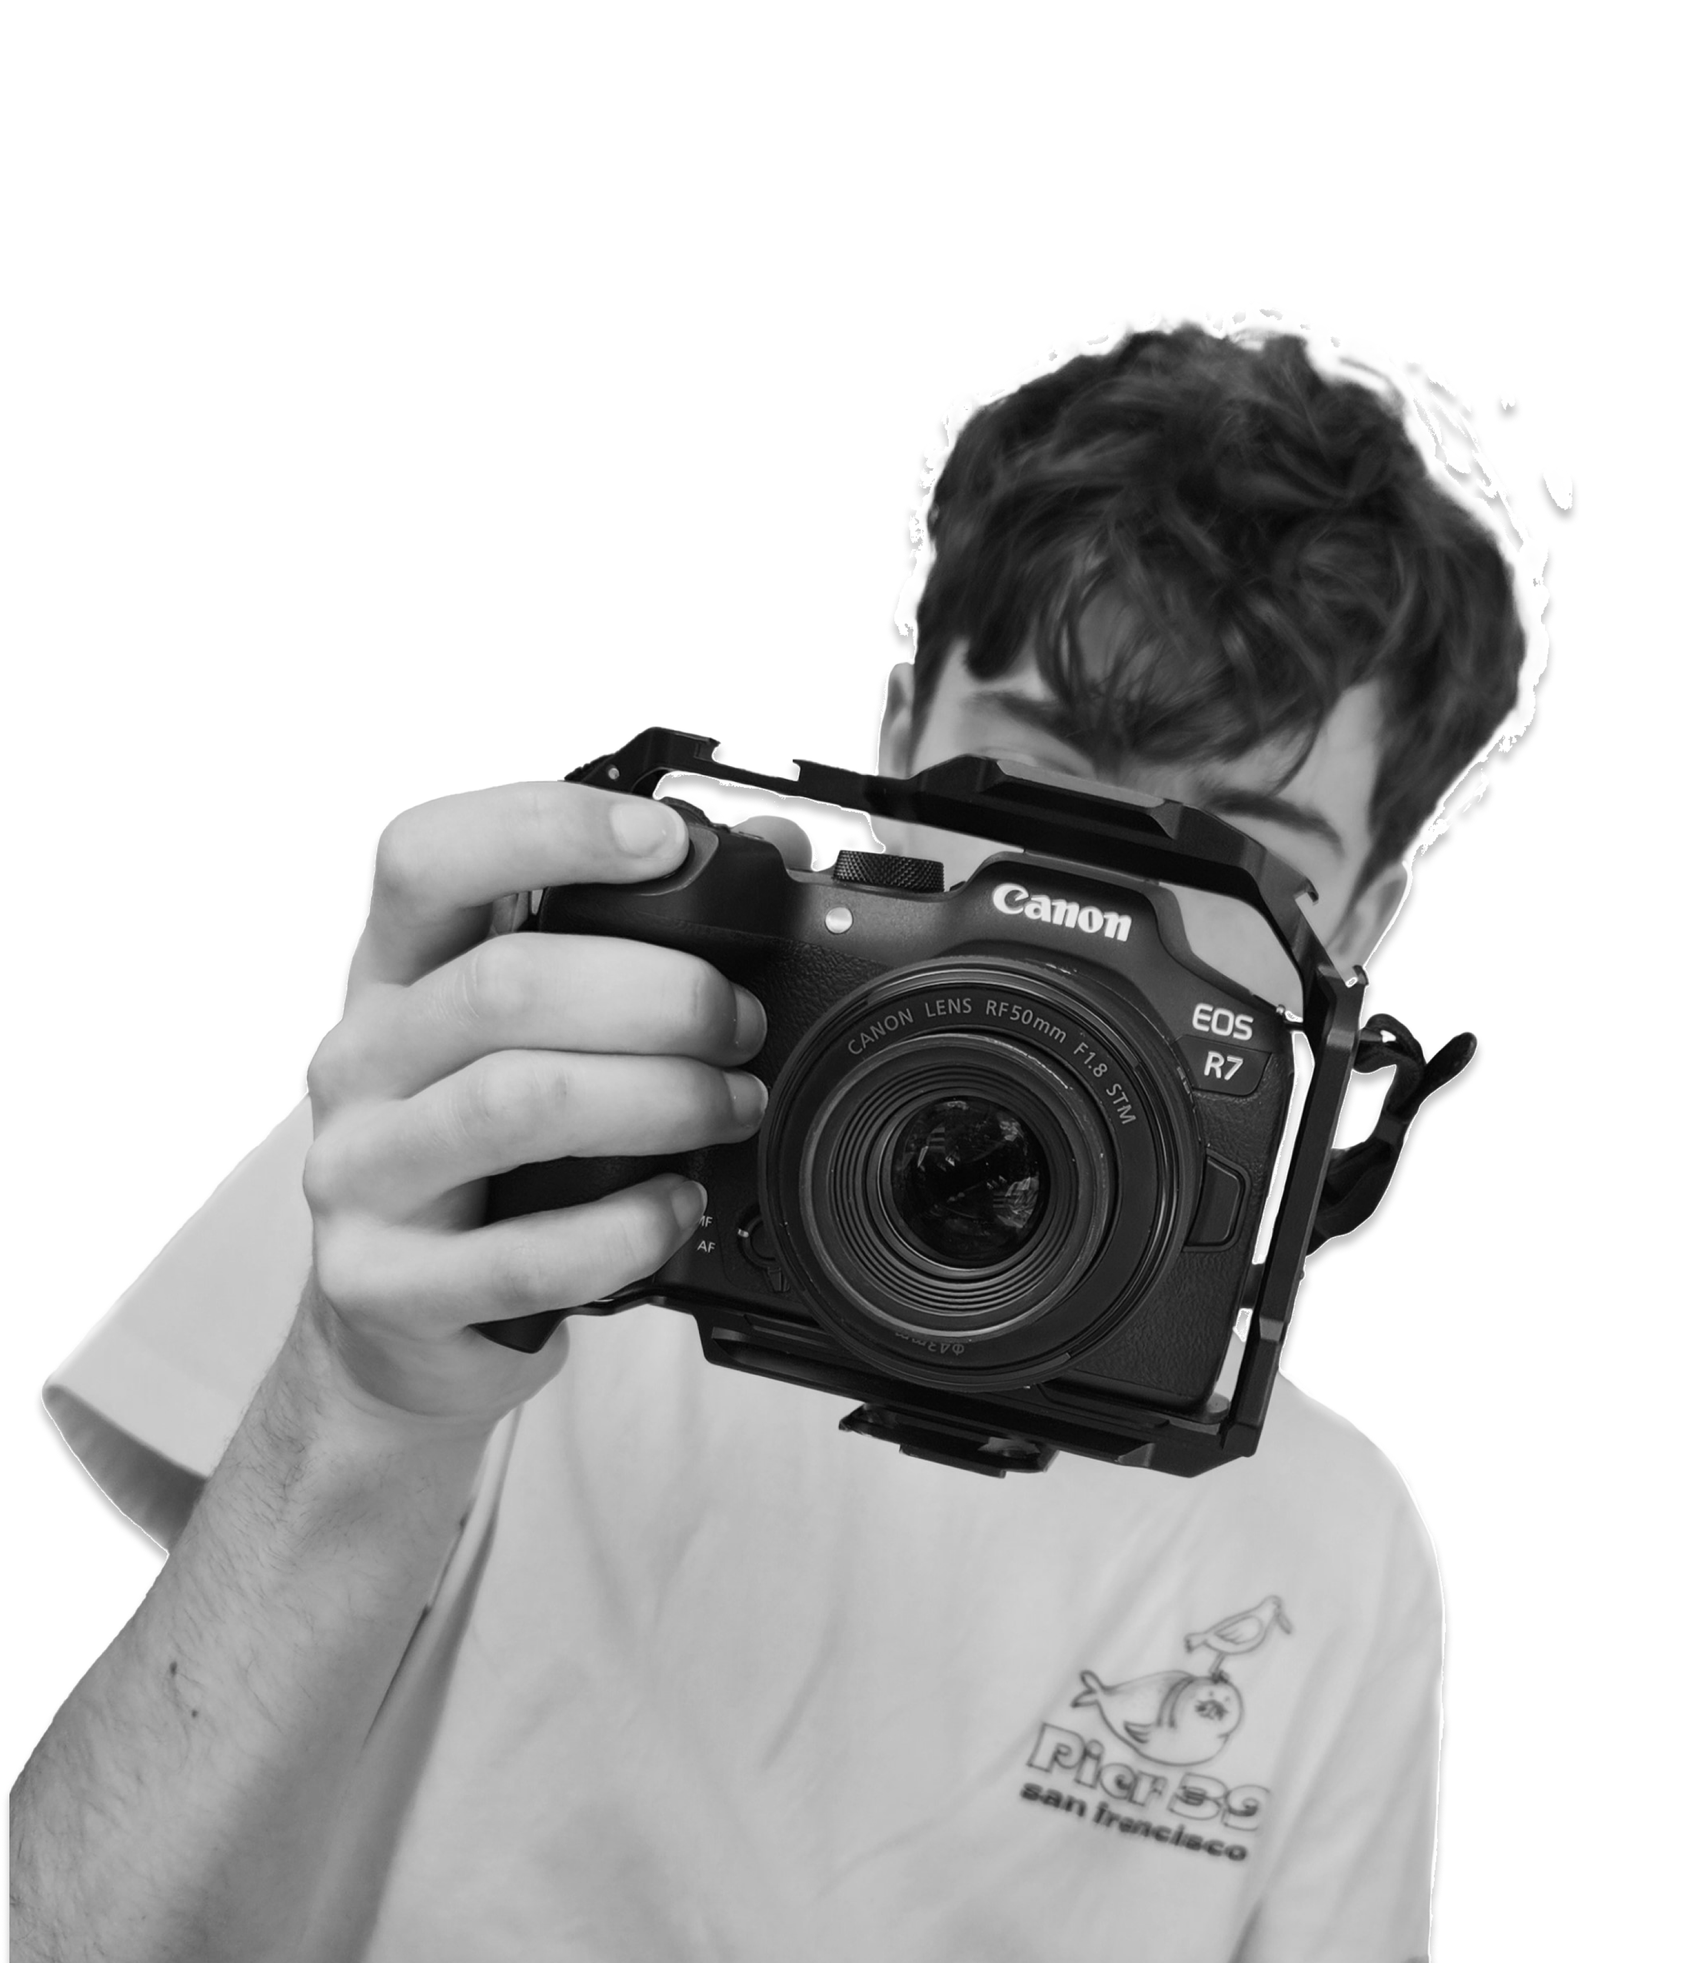
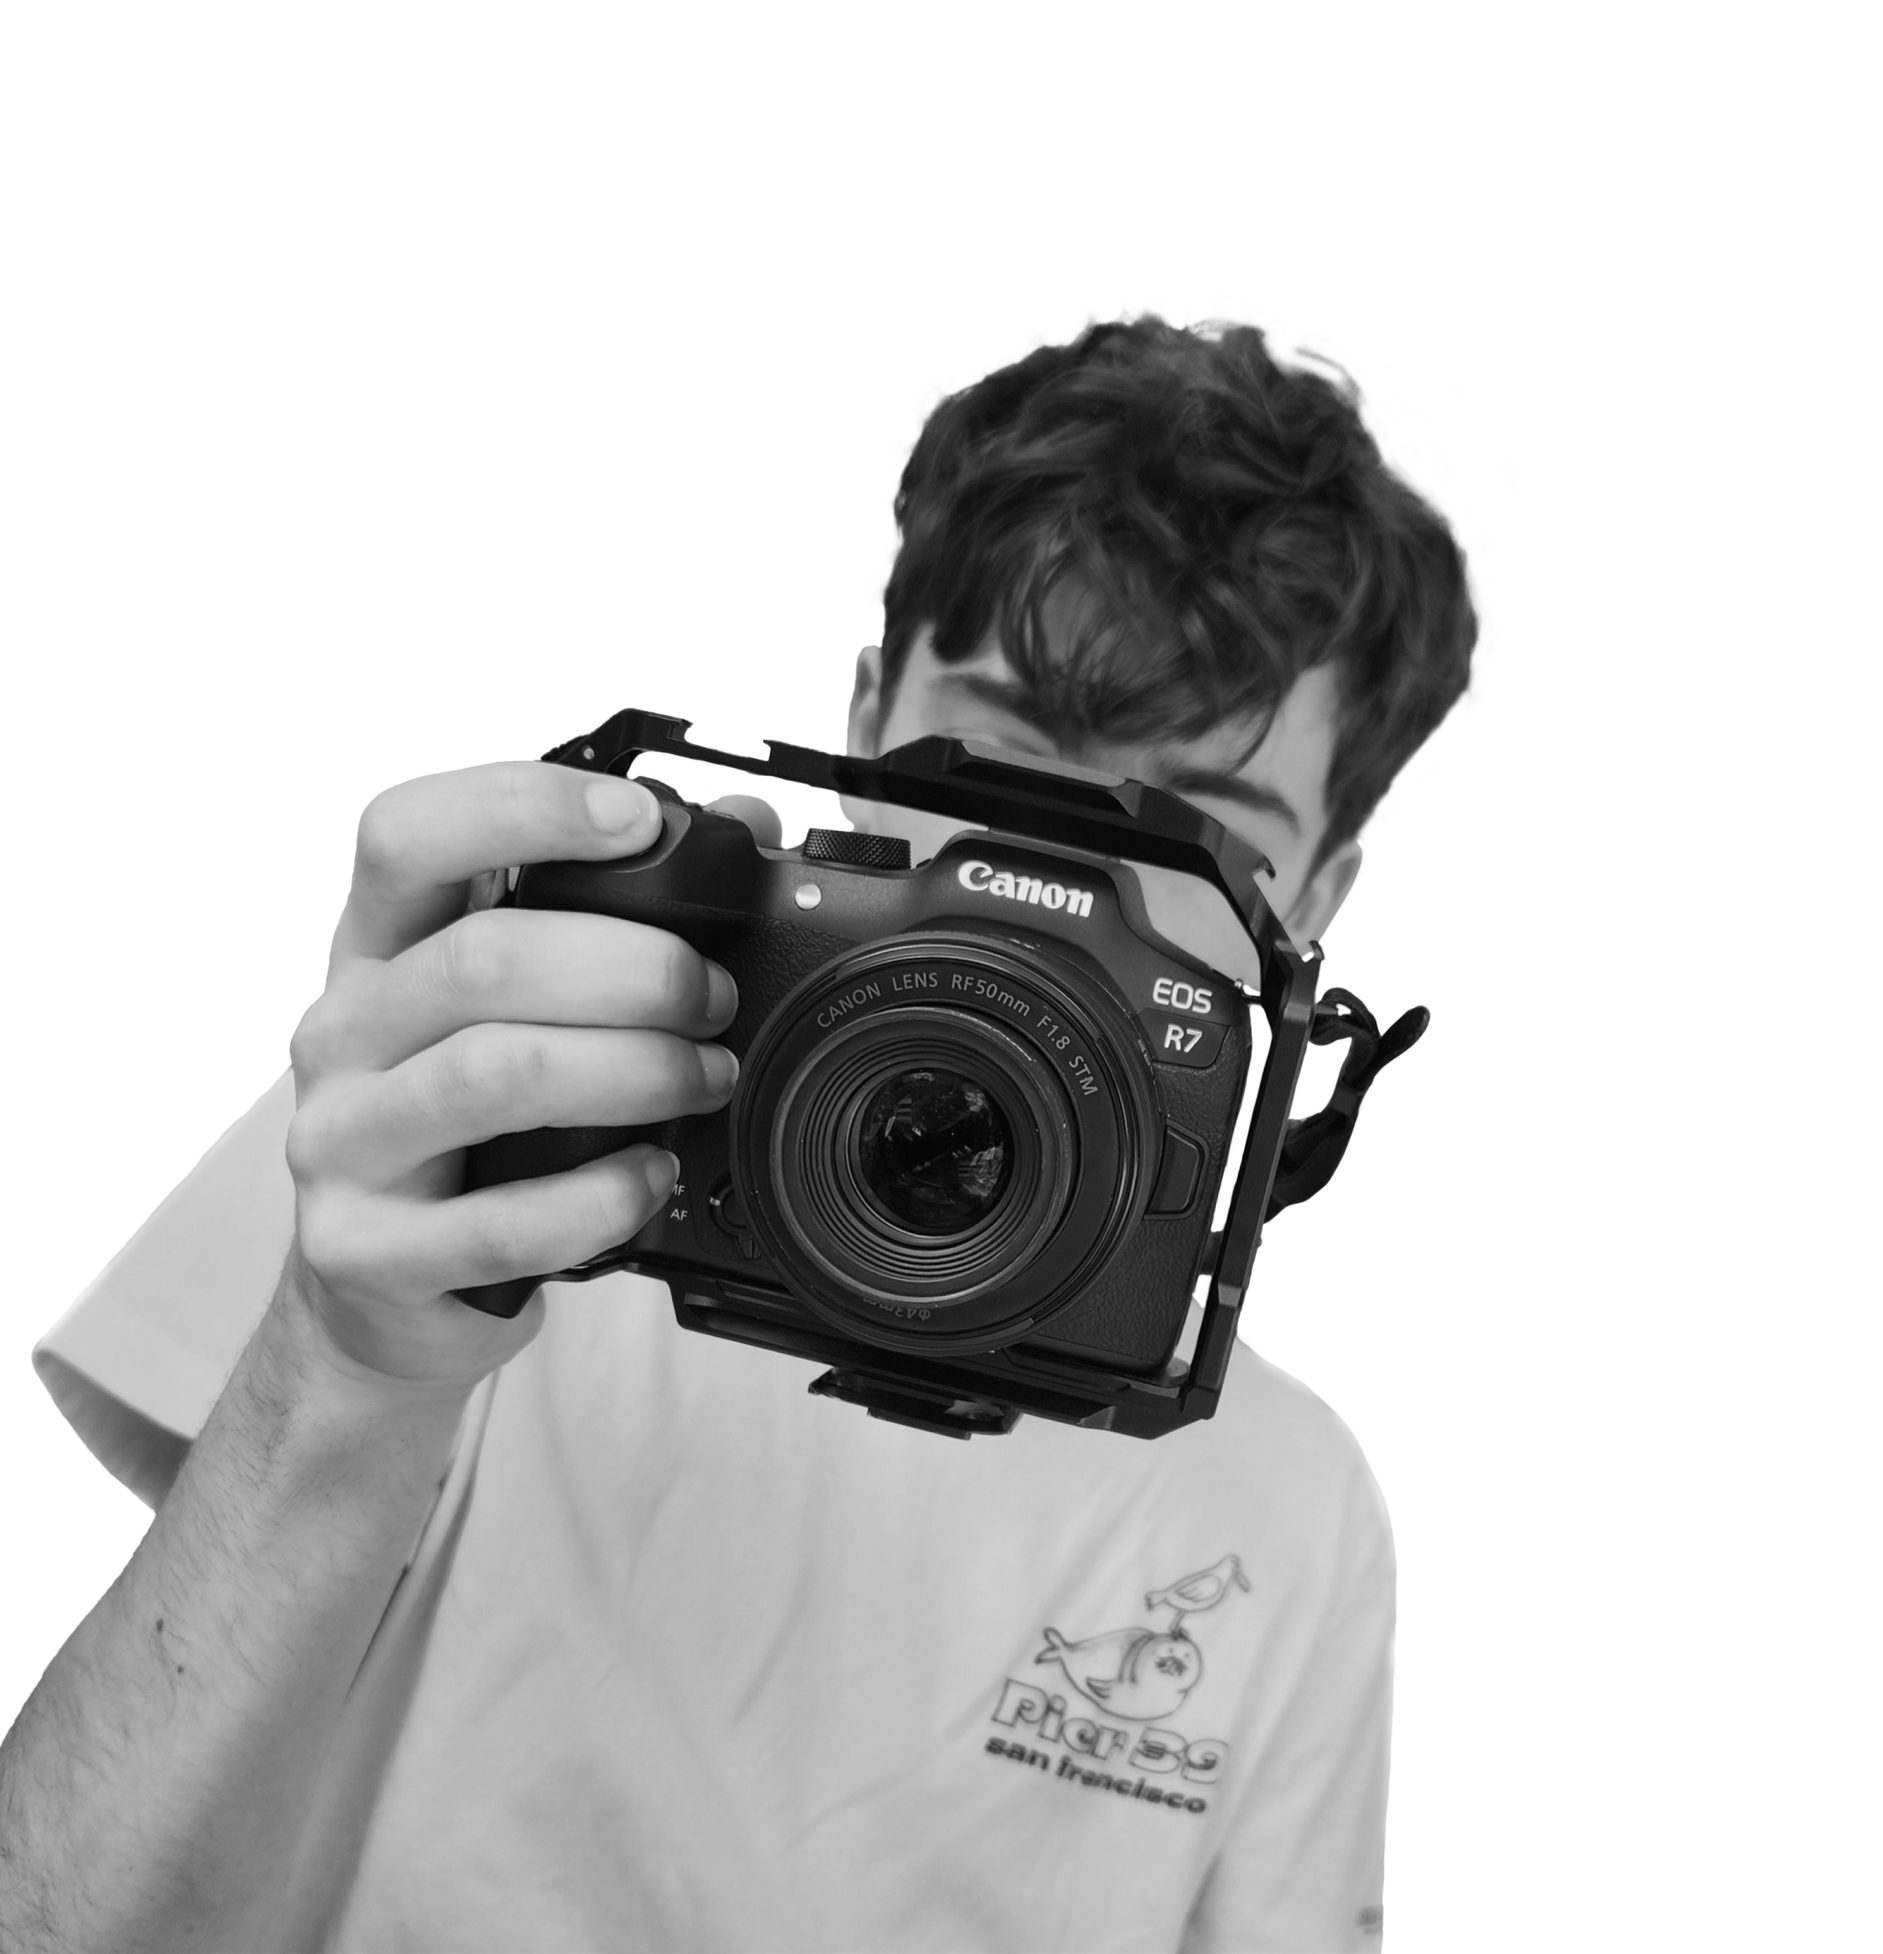
first step

Changed region(s): [[0.0, 0.1551, 0.9012, 1.0], [0.6215, 0.9615, 0.6526, 1.0]]

diff --git a/assets/home_section.css b/assets/home_section.css
@@ -1,0 +1,127 @@
+#home_section {
+    padding: 40px;
+    padding-top: calc(var(--navbarHeight) + 40px);
+    padding-left: calc(var(--leftLineOffset) + 40px);
+    display: flex;
+
+    header {
+        position: relative;
+        display: flex;
+        flex-direction: column;
+        max-width: 600px;
+        margin-top: 5%;
+
+        .header_intro {
+            display: flex;
+            align-items: center;
+            gap: 10px;
+            font-size: var(--textSize);
+            color: var(--secondaryText);
+
+            img {
+                height: 20px;
+            }
+        }
+
+        .header_main {
+            --headerMainFontSize: 5rem;
+            display: flex;
+            flex-direction: column;
+
+            h2:nth-child(1) { /* "Lubin" */
+                font-size: var(--headerMainFontSize);
+                margin: 0;
+            }
+
+            h2:nth-child(2) { /* "Pappalardo" */
+                font-size: var(--headerMainFontSize);
+                margin: 0;
+                margin-top: calc(var(--headerMainFontSize) / -4);
+            }
+
+            span {
+                margin-left: 20px;
+                font-family: 'Syne-Regular', sans-serif;
+                font-weight: normal;
+                font-size: var(--textSize);
+                color: var(--secondaryText);
+            }
+        }
+
+        .header_desc {
+            width: 80%;
+            margin-top: 20px;
+            color: var(--secondaryText);
+            font-size: var(--textSize);
+
+            img {
+                width: 20px;
+                margin: 0 2px;
+                transform: translateY(20%);
+            }
+        }
+    }
+
+    #header_img {
+        position: absolute;
+        width: 50%;
+        height: 100%;
+        right: 0;
+        bottom: 0;
+        /* border: 1px solid red; */
+
+        #header_img_fade {
+            position: absolute;
+            z-index: 1;
+            right: 0;
+            bottom: 0;
+            width: 200%;
+            height: 20%;
+            background: linear-gradient(0deg, var(--background), transparent);
+        }
+
+        img {
+            width: 100%;
+            /* opacity: 0; */
+        }
+
+        #header_circle {
+            position: absolute;
+            z-index: -1;
+            right: 45%;
+            bottom: 45%;
+            width: 200px;
+            height: 200px;
+            border-radius: 50%;
+            background: linear-gradient(90deg, var(--color1), var(--color2));
+            display: grid;
+            place-items: center;
+            transition: scale .5s;
+
+            svg {
+                /* border: 1px solid red; */
+                width: 130%;
+                height: 130%;
+                transform: rotate(-120deg) translate(1%, -2%);
+                animation: rotate-in 1s 2s cubic-bezier(0,0,.35,1) forwards; 
+                text {
+                    font-size: 24px;
+                    letter-spacing: 3px;
+                    opacity: 0.5;
+                }
+                  
+            }
+        }
+    }
+
+    &:active {
+        #header_circle {
+            scale: 1.1;
+        }
+    }
+}
+
+@keyframes rotate-in {
+    from { transform: rotate(-120deg) translate(1%, -2%); }
+    to { transform: rotate(-20deg) translate(1%, -2%); }
+}

diff --git a/index.html b/index.html
@@ -55,7 +55,34 @@
     </navbar>
 
 
-    <section id="section_home">
+    <section id="home_section">
+
+        <header>
+            <div class="header_intro"><img src='assets/svg/light_mode.svg' alt="Switch to dark mode"/>Welcome! I'm</div>
+            <div class="header_main">
+                <h2>Lubin<span>he/him</span></h2>
+                <h2>Pappalardo</h2>
+                <div class="header_desc">I am a 16y.o. from France <img src='assets/img/fr_flag_emoji.png' alt='French flag'>. I love to work on creative projects and have many art related hobbies such as....</div>
+            </div>
+        </header>
+ 
+        <div id="header_img">
+
+            <div id="header_img_fade"></div>
+
+            <div id="header_circle">
+                <svg viewBox="0 0 500 500">
+                    <path id="curve" fill="transparent" d="M73.2,148.6c4-6.1,65.5-96.8,178.6-95.6c111.3,1.2,170.8,90.3,175.1,97" />
+                    <text width="500">
+                      <textPath xlink:href="#curve">
+                        Portfolio 2024
+                      </textPath>
+                    </text>
+                  </svg>
+            </div>
+
+            <img id="home_lubinpappalardo" src="assets/img/lubinpappalardo.png" alt="Lubin Pappalardo">
+        </div>
     </section>
 
 

diff --git a/index.js b/index.js
@@ -1,0 +1,24 @@
+const img = $('#home_lubinpappalardo');
+const img_circle = $('#header_circle');
+let cursor = {x: 0, y: 0};
+
+$(window).on('mousemove', (event) => {
+    cursor.x = event.clientX;
+    cursor.y = event.clientY;
+});
+
+const parallax = (element, parallaxOffset) => {
+    const x = (cursor.x - window.innerWidth / 2) /  (window.innerWidth / 2) * parallaxOffset;
+    const y = (cursor.y - window.innerHeight / 2) / (window.innerHeight / 2) * parallaxOffset;
+
+    element.css('transform', `translate(${x}%, ${y}%)`);
+};
+
+const loop = () => {
+    parallax(img, 1);
+    parallax(img_circle, 7);
+    requestAnimationFrame(loop);
+};
+
+loop();
+

diff --git a/styles.css b/styles.css
@@ -1,6 +1,7 @@
 @import 'assets/fonts.css';
 @import 'assets/variables.css';
 @import 'assets/navbar.css';
+@import 'assets/home_section.css';
 
 * {
     box-sizing: border-box;

diff --git a/assets/variables.css b/assets/variables.css
@@ -25,4 +25,6 @@
     --leftLineOffset: 60px;
 
     --lineThickness: 1px;
+
+    --textSize: 18px;
 }
